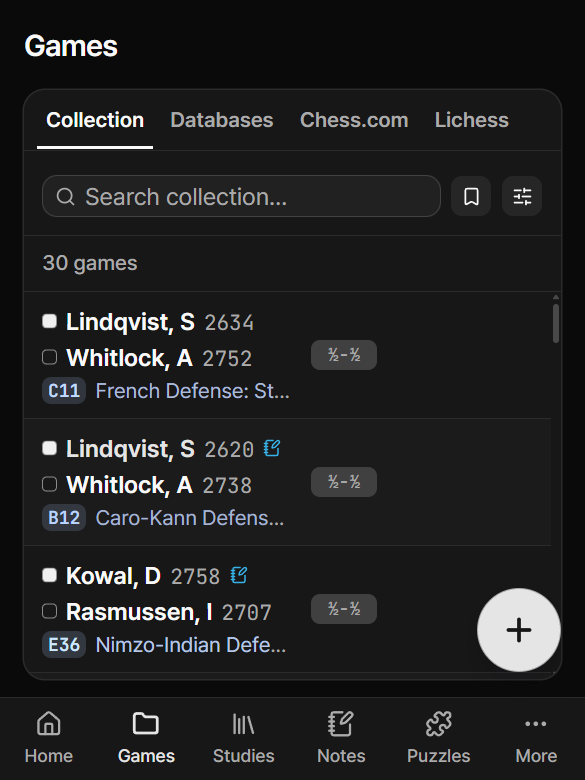
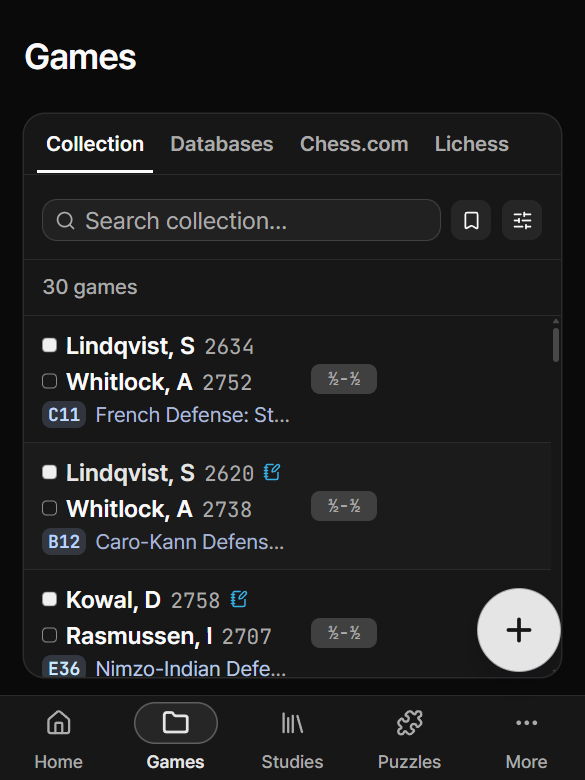
Write up the five-tab bar and the page header in the docs
The design principles' "one page title" bullet now states the two
rungs and the sibling rule (a sticky header cannot live in a wrapper),
the phone bullet names the five tabs and the pill, the type-scale table
admits the phone's text-2xl title, and DESIGN.md records the bar's and
the header's measurements. The manual's tab list loses Notes in both
languages, the update log gains the two Unreleased entries, and
CLAUDE.md names shots:grid as how a visible change is measured.

Screenshots: games-phone and books recaptured (the bar and the header
are what changed in them). The other 24 differ from the committed set
only by this machine: 200% display scaling doubled the raster until
--force-device-scale-factor=1, and the desktop window lands at 996px
where the committed set was clamped to 993, so they stay as they were
rather than churn for three pixels. Relative dates ("edited 2 days
ago") also move between capture days.

diff --git a/web/landing/docs.html b/web/landing/docs.html
@@ -678,11 +678,11 @@
               <strong>Databases</strong>. The Puzzles and Tools sub-rows unfold only while that section is open. Below them sit the vault's name (the one given in Settings → Vault, else its folder's; the full path in the tooltip; unfolded only), the connection label (“This device”, your server's name, or “Offline”), the Settings gear, and the light/dark
               toggle. The first row under the mark, “Fold the sidebar”, folds the sidebar to its icons; folded, the same row reads “Unfold the sidebar” and unfolds it, and hovering a row shows its name as a tooltip. Until you choose, the window decides: labels on a wide window, icons on a narrower one. One press keeps your choice on this device.
             </p>
-            <p data-ko="휴대폰의 하단 바는 <strong>Home · Games · Studies · Notes · Puzzles · More</strong>를 들고, Books·Opening map·Databases·Settings와 나머지 도구는 <strong>More</strong> 안에 있습니다. 보드가 있는 페이지에서는 하단 바가 그 페이지의 조작으로 바뀝니다 — <a href='#phone'>휴대폰에서</a> 참조.">
-              A phone's bottom bar carries <strong>Home · Games · Studies · Notes · Puzzles ·
-              More</strong>; Books, Opening map, Databases, Settings and the rest of the tools live
-              under <strong>More</strong>. On a page with a board the bar becomes that page's own
-              controls — see <a href="#phone">On a phone</a>.
+            <p data-ko="휴대폰의 하단 바는 <strong>Home · Games · Studies · Puzzles · More</strong>를 들고, Notes·Books·Opening map·Databases·Settings와 나머지 도구는 <strong>More</strong> 안에 있습니다. 보드가 있는 페이지에서는 하단 바가 그 페이지의 조작으로 바뀝니다 — <a href='#phone'>휴대폰에서</a> 참조.">
+              A phone's bottom bar carries <strong>Home · Games · Studies · Puzzles ·
+              More</strong>; Notes, Books, Opening map, Databases, Settings and the rest of the
+              tools live under <strong>More</strong>. On a page with a board the bar becomes that
+              page's own controls — see <a href="#phone">On a phone</a>.
             </p>
             <h2 data-ko="홈">Home</h2>
             <p data-ko="홈의 구성 요소, 위에서부터:">What Home is made of, top to bottom:</p>
@@ -2593,9 +2593,9 @@
             </figure>
             <h2 data-ko="무엇이 달라지나">What changes</h2>
             <ul>
-              <li data-ko="하단 바에 <strong>Home · Games · Studies · Notes · Puzzles · More</strong>가 있고, 나머지는 More 안에 있습니다. 각 페이지의 만들기·추가는 오른쪽 아래 FAB로 옵니다.">
-                The bottom bar carries <strong>Home · Games · Studies · Notes · Puzzles ·
-                More</strong>, the rest under More; each page's create/add actions arrive as a FAB.
+              <li data-ko="하단 바에 <strong>Home · Games · Studies · Puzzles · More</strong>가 있고, 나머지는 More 안에 있습니다. 각 페이지의 만들기·추가는 오른쪽 아래 FAB로 옵니다.">
+                The bottom bar carries <strong>Home · Games · Studies · Puzzles · More</strong>,
+                the rest under More; each page's create/add actions arrive as a FAB.
               </li>
               <li data-ko="보드가 있는 페이지에서는 하단 바가 <strong>그 페이지의 조작</strong>이 됩니다. Chess.com·Lichess 앱과 같은 방식입니다: 보드에서는 수 이동, 퍼즐에서는 퍼즐 이동, 책에서는 열린 탭(Book/Board)의 도구, 오프닝 맵에서는 선택한 수의 띠. 페이지를 떠나면 원래 탭들이 돌아옵니다.">
                 On a page with a board, the bar becomes <strong>that page's controls</strong> —

diff --git a/scripts/shot-grid.ts b/scripts/shot-grid.ts
@@ -5,6 +5,8 @@
  *   OUT=.shots/base npm run shots:grid                    # record a baseline
  *   ...edit, npm run build:demo...
  *   OUT=.shots/after BASE_DIR=.shots/base npm run shots:grid   # diff against it
+ *   ROUTES='#/games,#/studies' narrows a run (Git Bash: MSYS_NO_PATHCONV=1,
+ *   or the '#/' is rewritten as a path and the route never matches).
  *
  * WHY. `check:contrast` measures colour and takes no pictures; `shots`
  * recaptures the manual's images in Electron. Neither answers the

diff --git a/docs/design-principles.ko.md b/docs/design-principles.ko.md
@@ -140,8 +140,8 @@
 | 설명 문구, 작은 대문자 라벨 | `text-xs` | 12px |
 | 본문, 목록 줄, 패널 글 | `text-sm` | 14px |
 | 제목, 설정 줄 | `text-base` | 16px |
-| 페이지 제목 (`PageHeader`) | `text-xl` | 20px |
-| 단 하나의 표시용 숫자 | `text-2xl` | 24px |
+| 페이지 제목 (`PageHeader`, 데스크톱) | `text-xl` | 20px |
+| 단 하나의 표시용 숫자, 그리고 휴대폰의 페이지 제목 | `text-2xl` | 24px |
 
 "단 **하나**"는 그냥 하는 말이 아니고, 한동안 사실이 아니었습니다. 퍼즐
 대시보드가 네 개의 도드라진 타일(Solved / Attempts / Win rate / Failed)에
@@ -269,9 +269,21 @@
   장식은 떠 있지 않습니다. 캔버스가 네 번째 너비가 될 수 없는 이유는
   그대로입니다. 너비는 한 줄의 글이 얼마나 길어야 하는가에 답하는데,
   캔버스는 어느 크기에서든 주어진 픽셀을 전부 원합니다.
-- **페이지 제목은 하나**, `PageHeader`입니다.
-  `text-xl font-semibold tracking-tight`이고, 동작은 오른쪽으로, 더보기를 거쳐
-  들어오는 페이지에는 휴대폰 전용 뒤로 화살표가 붙습니다. `ShelfToolbar`도 그 위에
+- **페이지 제목은 하나**, `PageHeader`입니다. 이름은 하나, 크기 단계는
+  둘입니다. 데스크톱에서는 `text-xl font-semibold tracking-tight`이고 동작은
+  오른쪽으로 밀립니다. 휴대폰에서는 이름이 44px 줄 안의 `text-2xl` 큰 제목이고,
+  그 줄이 곧 페이지의 바입니다. 스크롤 영역 맨 위에 붙어(sticky) 페이지
+  배경을 받고, 페이지가 그 아래로 스크롤되면 이름을 `text-base`로 줄이고
+  가느다란 선을 긋습니다(iOS의 큰 제목, Material 3의 medium 앱 바). 동작은
+  두 상태 모두 이름과 같은 줄에 머무릅니다. 더보기를 거쳐 들어오는
+  페이지에는 휴대폰 전용 뒤로 화살표가 붙습니다. `subtitle`(페이지가
+  가진 것: 스터디 12개), `description`(페이지가 하는 일), `search`(찾기
+  또는 필터 필드. 휴대폰에서는 전체 너비, 데스크톱에서는 `max-w-sm`)는
+  머리글의 슬롯이며, 열의 간격으로 띄운 **형제 요소**로 그려집니다.
+  `sticky`는 요소를 부모 상자 안에 붙잡아 두므로, 검색 줄과 함께 감싼
+  머리글은 그 감싸개와 같이 스크롤되어 사라집니다. 셸의 간격 대신 자기
+  여백을 쓰는 페이지가 이런 머리글을 가질 수 없는 이유도 같습니다.
+  `ShelfToolbar`, 책, 퍼즐 책장, 테마, 라이선스, `CanvasShell`이 그 위에
   지어져 있습니다. (제목 크기가 넷까지 쌓였었습니다. 페이지의 이름은 한
   목소리여야 합니다.) 캔버스 페이지도 같은 여백에서 이것을 쓰고, 표면은 그
   아래에서 시작합니다. 한때는 자기만의 `text-base` 제목을 구석에 두었습니다.
@@ -343,7 +355,14 @@
   넓으면 나란히, 아니면 한 열입니다. 세로로 쌓인 레이아웃은 페이지 머리글로
   시작하고(관례: 머리글은 맨 위), 넓은 레이아웃은 머리글을 옆 열에 두어
   보드와 맞춥니다.
-- 휴대폰(`md:hidden`의 세계): 허브 페이지에서는 하단 바가 내비게이션이지만
+- 휴대폰(`md:hidden`의 세계): 하단 바는 탭 다섯 개, 홈·게임·스터디·퍼즐·더보기를
+  듭니다. Material 3 지침이 멈추는 수이고 lichess가 내놓는 수입니다. 노트,
+  책, 오프닝 맵은 더보기와 홈 타일을 거쳐 닿습니다. 현재 탭은 사이드바의
+  현재 줄과 같은 알약 모양(`bg-muted`, 아이콘 뒤의 `primary/30` 안쪽 링,
+  세미볼드 라벨)을 입어, 두 내비게이션이 "여기 있다"를 같은 말로 합니다.
+  바는 고정된 채 붙어 있습니다. 떠 있는 캡슐은 iOS 26만의 관용구이고,
+  스크롤에 숨기는 것은 바가 `main`의 flex 형제라서 모든 페이지의 크기를
+  바꿉니다. 허브 페이지에서는 하단 바가 내비게이션이지만
   **말단 페이지는 그것을 가져갑니다**. 보드, 스터디, 퍼즐, 레퍼토리는
   `MobileActionBar`를 통해 전역 탭을 자기 조작(수 이동, 퍼즐 동작)으로
   바꾸고, 빠져나올 때는 뒤로 화살표를 씁니다. Chess.com·Lichess와 같은

diff --git a/docs/design-principles.md b/docs/design-principles.md
@@ -150,8 +150,8 @@ usage moved up a rung instead:
 | captions | `text-xs` | 12px |
 | body, list rows, panel text | `text-sm` | 14px |
 | titles, setting rows | `text-base` | 16px |
-| page titles (`PageHeader`) | `text-xl` | 20px |
-| the one display figure | `text-2xl` | 24px |
+| page titles (`PageHeader`, desktop) | `text-xl` | 20px |
+| the one display figure, and a phone's page title | `text-2xl` | 24px |
 
 "The ONE display figure" is load-bearing and was not true for a while:
 the puzzle dashboard spent that rung four times in a single row, on four
@@ -297,10 +297,24 @@ Where a density lands is measured, never guessed: 44 dashboard rows go
   names the PAGE does not. A canvas still cannot be a fourth width: a
   width answers how long a line of text should be, and a canvas wants
   every pixel it is given at any size.
-- **One page title**: `PageHeader` — `text-xl font-semibold
-  tracking-tight`, actions pushed right, the phone-only back chevron
-  where a page is reached through More. `ShelfToolbar` is built on it.
-  (Four title sizes had accumulated; a page's name is one voice.)
+- **One page title**: `PageHeader` — one name, two rungs. On a desktop
+  it is `text-xl font-semibold tracking-tight` with the actions pushed
+  right. On a phone the name is a `text-2xl` large title in a 44px row,
+  and the row is the page's bar: sticky at the top of the scroller, it
+  takes the page background, shrinks the name to `text-base` and draws
+  a hairline once the page has scrolled under it (the iOS large title,
+  Material 3's medium app bar), with the actions staying on the name's
+  line in both states. The phone-only back chevron sits where a page is
+  reached through More. `subtitle` (what the page has: 12 studies),
+  `description` (what it is for) and `search` (its find-or-filter
+  field, full width on a phone and `max-w-sm` on a desktop) are slots
+  of the header, rendered as SIBLINGS spaced by the column's gap:
+  `sticky` holds an element inside its parent's box, so a header
+  wrapped up with its search row scrolls away with the wrapper, which is
+  also why a page that hands the shell its own margins cannot hold one.
+  `ShelfToolbar`, Books, the puzzle shelf, Themes, Licences and
+  `CanvasShell` are built on it. (Four title sizes had accumulated; a
+  page's name is one voice.)
   A canvas page uses it too, on the same gutters, with its surface
   starting below. It briefly had a `text-base` title of its own, on the
   theory that a heading competing with the canvas is a heading in the
@@ -374,8 +388,16 @@ Where a density lands is measured, never guessed: 44 dashboard rows go
   when the viewport is wide, single column otherwise. Stacked layouts
   lead with a page header (convention: header at top), wide layouts put
   the header in the side column where it aligns with the board.
-- Phones (`md:hidden` world): the bottom bar is the navigation on hub
-  pages, but a **leaf page claims it** — board, study, puzzle and
+- Phones (`md:hidden` world): the bottom bar holds five tabs — Home,
+  Games, Studies, Puzzles, More — the count where Material 3's guidance
+  stops and the one lichess ships; Notes, Books and the opening map are
+  reached through More and the Home tiles. The current tab wears the
+  sidebar's current-row pill (`bg-muted`, a `primary/30` inset ring
+  behind the icon, a semibold label), so both navigations say "you are
+  here" the same way. The bar stays docked and pinned: the floating
+  capsule is iOS 26's idiom alone, and hiding on scroll would resize
+  every page, since the bar is a flex sibling of `main`. It is the
+  navigation on hub pages, but a **leaf page claims it** — board, study, puzzle and
   repertoire replace the global tabs with their own controls (move
   navigation, puzzle actions) via `MobileActionBar`, and you leave by the
   back chevron, Chess.com/Lichess-style. Desktop navigates by sidebar, no

diff --git a/DESIGN.md b/DESIGN.md
@@ -597,9 +597,21 @@ hit areas, `title` as a tooltip. Composites live in
 
 - A section list of icon-plus-label rows; the active section takes the
   primary treatment, everything else is quiet until hovered.
+- The phone's bottom bar: five tabs (Home, Games, Studies, Puzzles,
+  More), docked and pinned, `bg-card` with a `border-t` hairline and the
+  home-indicator inset, gone while the keyboard is up. Each tab is a
+  28px-tall, 56px-wide pill track over a `text-xs` label; the current
+  tab fills the track `bg-muted` with a `primary/30` inset ring and
+  goes semibold, the sidebar's current-row treatment. 56px tall.
 - On a phone the bottom bar becomes the open page's controls — move
   navigation, puzzle actions — in the Chess.com / Lichess idiom, claimed
   by whichever page is open.
+- Page headers: `text-xl` on a desktop; on a phone a `text-2xl` large
+  title in a 44px row that sticks to the top of the page, drops to
+  `text-base` and gains a `border-b` hairline once the page has
+  scrolled under it. A count line (`text-sm text-muted-foreground`)
+  sits 4px under the title; the search field is full width on a phone
+  and `max-w-sm` on a desktop.
 
 ### Signature: the board and its overlays
 

diff --git a/docs/update-log.ko.md b/docs/update-log.ko.md
@@ -7,6 +7,15 @@
 
 ## Unreleased
 
+- **휴대폰의 탭은 다섯 개, 현재 탭에는 알약 표시.** 하단 바가 홈, 게임,
+  스터디, 퍼즐, 더보기를 듭니다. 노트는 더보기로 옮겨 가고 홈 타일로는
+  남습니다. 현재 탭은 글자 색만이 아니라 사이드바의 현재 줄과 같은 알약
+  모양으로 표시됩니다.
+- **페이지 머리글이 자랐습니다.** 휴대폰에서는 페이지 이름이 큰 제목으로
+  놓이고, 스크롤하면 맨 위의 바로 줄어들며, 페이지의 버튼은 그 옆에
+  있습니다. 책장은 이름 아래에 가진 개수(스터디 12개)를 보여 주고, 검색
+  필드는 자기 줄을 가집니다. 휴대폰에서는 전체 너비, 데스크톱에서는 너비를
+  제한합니다. 라이선스 페이지도 같은 모양을 따릅니다.
 - **랜딩 페이지가 보관함을 한 번만 보여 줍니다.** 두 번 보여 주고
   있었습니다. 제목 옆의 여섯 줄 요약과, 그 아래 데모 보관함의 실제 파일
   목록. 휴대폰에서는 둘이 겹쳐 쌓여 중복으로 읽혔습니다. 이제 깊은 목록이

diff --git a/docs/update-log.md b/docs/update-log.md
@@ -7,6 +7,15 @@ What changed, newest first. Feature-level entries, not a commit ledger —
 
 ## Unreleased
 
+- **Five tabs on the phone, and a pill under the current one.** The
+  bottom bar carries Home, Games, Studies, Puzzles and More; Notes moves
+  to More and stays a tile on Home. The current tab is marked with the
+  same pill the sidebar's current row has, not by text colour alone.
+- **Page headers grew up.** On a phone the page's name is a large title
+  that shrinks into a bar at the top as you scroll, with the page's
+  buttons beside it. Shelves show how much they hold under their name
+  (12 studies), and the search field has a row of its own: full width on
+  a phone, capped on a desktop. The licences page joins the same shape.
 - **The landing page lists the vault once.** It listed it twice: a
   six-line summary beside the headline, and the demo vault's own files
   under it. On a phone the two stacked and read as a duplicate. The

diff --git a/CLAUDE.md b/CLAUDE.md
@@ -84,7 +84,9 @@ at.
 **Measure, do not assert.** A refactor that should change nothing is proved
 by diffing the output before and after. A claimed improvement is quoted
 with the number that was measured, and a number that has not been checked
-is labelled as such.
+is labelled as such. For anything visible, the diff is `npm run
+shots:grid`: record a baseline from the demo build, rebuild, run it
+again with `BASE_DIR` set, and quote which pictures changed and where.
 
 **Commit each verified change on its own**, with a message saying why it
 was needed and what it cost, not just what changed. Behaviour-neutral
